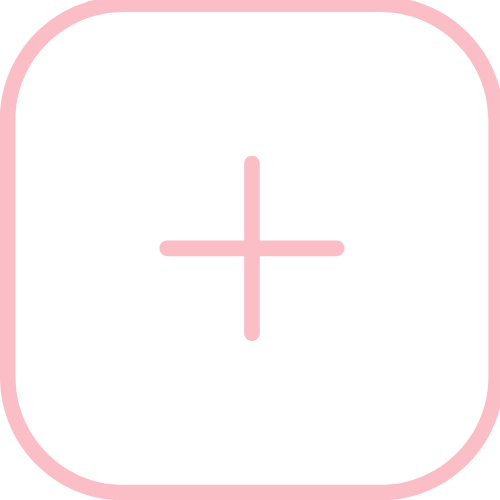
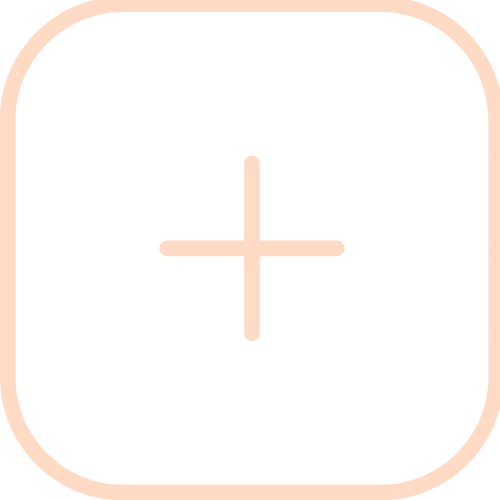
change css style

Changed region(s): [[0.0, 0.0, 1.0, 1.0], [0.3, 0.3, 0.69, 0.69]]

diff --git a/frontend/src/components/Questionnaire/QuestionnaireForm.css b/frontend/src/components/Questionnaire/QuestionnaireForm.css
@@ -1,7 +1,7 @@
 
 .question_form{
     
-    background-color:#F4F4F9;
+    background-color:#fff9f5ac;
     height:100%;
 padding-bottom:30px;
     
@@ -15,8 +15,8 @@ padding-bottom:30px;
 
 .question_form_top{
     
-    background-color: white;
-    border-top:8px solid #f18bbd ;
+    background-color:white;
+    border-top:8px solid #484849 ;
     border-radius: 8px;
     padding:30px 25px;
     text-transform: capitalize;
@@ -68,7 +68,7 @@ padding-bottom:30px;
 
 .add_question{
   
-    background-color: white;
+    background-color:white;
     
     border-radius: 8px;
     padding:25px 22px;
@@ -122,7 +122,7 @@ padding-bottom:30px;
 
    /* line-height: 40px; */
    width:8%;
-   border:1px solid #f18bbd ;
+   border:1px #484849 ;
    outline:none;
    color:black;
    height:40px;
@@ -133,9 +133,9 @@ padding-bottom:30px;
 
 
 .question:focus{
-    border-bottom:1px solid #f18bbd ;
+    border-bottom:1px #484849 ;
   
-    background-color:#F4F4F9;
+    background-color:#fff9f5ac;
 }
 
 
@@ -199,14 +199,20 @@ background:transparent;
 }
 
 .text_input:focus{
-    border-bottom:1.5px solid #f18bbd ;
+    border-bottom:1.5px #484849 ;
 
 }
 
 .save-btn{
-    background-color:#f18bbd !important;
-    color:black !important;
-   
+     
+        background-color: #FFDAC4 !important;
+        border: none;
+        padding: 5px 8px 5px 8px;
+        margin: 5px;
+        border-radius: 5px;
+        color: #202124 !important;
+    
+    
 }
 
 
@@ -248,7 +254,8 @@ background:transparent;
 }
 
 .add_border{
-    border-left:6px solid #f18bbd ;
+    border-left:6px solid #FFDAC4 ;
+    
 }
 
 .save_form{

diff --git a/frontend/src/components/Questionnaire/NavigateToField.js b/frontend/src/components/Questionnaire/NavigateToField.js
@@ -1,8 +1,7 @@
 import React ,{useState , useEffect} from 'react'
 import "./NavigateToField.css"
 import StorageIcon from '@material-ui/icons/Storage';
-import MoreVertIcon from '@material-ui/icons/MoreVert';
-import doc_image from "../../images/form-example.PNG";
+import doc_image from "../../images/form-example.png";
 import { useNavigate  } from "react-router-dom";
 
 
@@ -29,10 +28,10 @@ export default function NavigateToField({name}) {
                 <h5 style={{overFlow:"ellipsis"}}>{ data.questionText }</h5>
                 <div className="doc_content">
                     <div className="content_left" style={{fontSize:"12px",color:"grey"}}>
-                    <StorageIcon style={{color:"white",fontSize:"12px",backgroundColor:"#f18bbd",padding:"3px",marginRight:"3px",borderRadius:"2px"}}/>   { data.date}
+                    <StorageIcon style={{color:"white",fontSize:"12px",backgroundColor:"#FFDAC4",padding:"3px",marginRight:"3px",borderRadius:"2px"}}/>   { data.date}
                     </div>
                     
-                     <MoreVertIcon style={{color:"grey",fontSize:"16px"}} />
+                     
                 </div>
              </div>
         </div>

diff --git a/frontend/src/components/Questionnaire/QuestionnaireForm.js b/frontend/src/components/Questionnaire/QuestionnaireForm.js
@@ -420,8 +420,8 @@ export default function QuestionnaireForm() {
 
                             } label={
                               <div>
-                                <input type="text" className="text_input" style={{ fontSize: "13px", width: "60px" }} placeholder="Add other"></input>
-                                <Button size="small" onClick={() => { addOption(i,ques.questionType) }} style={{ textTransform: 'none', color: "#f18bbd ", fontSize: "13px", fontWeight: "600" }}>Add Option</Button>
+                                
+                                <Button size="small" onClick={() => { addOption(i,ques.questionType) }} style={{ textTransform: 'none', color: "#FFDAC4", fontSize: "13px", fontWeight: "600" }}>Add Option</Button>
                               </div>
                             } />
                           </div>

diff --git a/frontend/src/components/Questionnaire/AddQuestionnaireForm.js b/frontend/src/components/Questionnaire/AddQuestionnaireForm.js
@@ -406,7 +406,7 @@ export default function AddQuestionnaireForm() {
                             } label={
                               <div>
                                 {/* <input type="text" className="text_input" style={{ fontSize: "13px", width: "60px" }} placeholder="Add other"></input> */}
-                                <Button size="small" onClick={() => { addOption(i) }} style={{ textTransform: 'none', color: "#f18bbd ", fontSize: "13px", fontWeight: "600" }}>Add Option</Button>
+                                <Button size="small" onClick={() => { addOption(i) }} style={{ textTransform: 'none', color: "#FFDAC4 ", fontSize: "13px", fontWeight: "600" }}>Add Option</Button>
                               </div>
                             } />
                           </div>

diff --git a/frontend/src/components/Questionnaire/Header.css b/frontend/src/components/Questionnaire/Header.css
@@ -27,7 +27,7 @@
 .header_search{
     display:flex;
     flex-direction:row;
-    background-color:#F4F4F9;
+    background-color:none;
     border-radius:10px;
     color:-internal-light-dark(black, white);
     width:700px;
@@ -37,7 +37,7 @@
 .header_search > input{
     border:none;
     height:40px;
-    background:transparent;
+    background-color:none;
     outline:none;
     width:100%;
     

diff --git a/frontend/src/components/Questionnaire/NewField.css b/frontend/src/components/Questionnaire/NewField.css
@@ -1,5 +1,5 @@
 .template_section{
-    background-color:#F4F4F9;
+    background-color:white;
     
 padding-top:7px;
 padding-bottom:40px;
@@ -47,10 +47,9 @@ padding-bottom:40px;
     height:120px;
     width:140px;
     border-radius:2px;
-    border:0.5px solid #FFFDF7;
     cursor: pointer;
 }
 
 .card_image:hover{
-    border:1px solid #6E2594;
+    border:1px solid #484849;
 }

diff --git a/frontend/src/components/Questionnaire/NavigateToField.css b/frontend/src/components/Questionnaire/NavigateToField.css
@@ -9,7 +9,7 @@
 }
 
 .doc_card:hover{
-    border:1px solid #6E2594;
+    border:1px solid #494949;
 }
 .doc_card_image{
     box-sizing:border-box;
